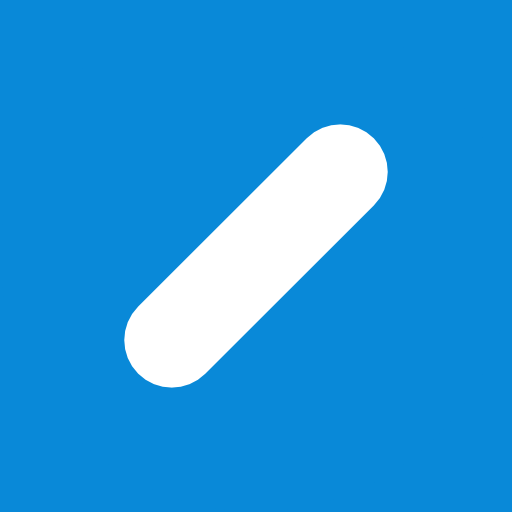
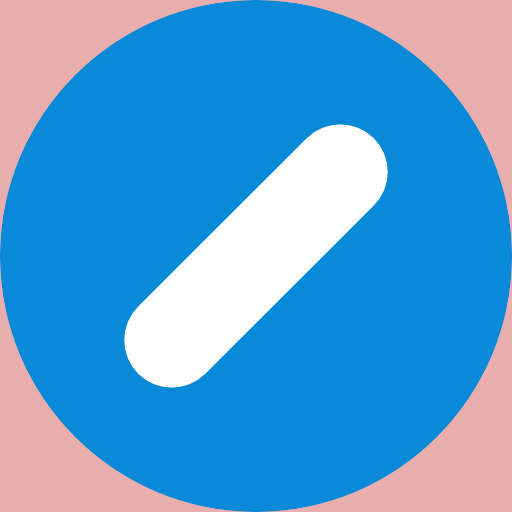
convert webmanifest to json + change android chrome assets

diff --git a/pages/index.js b/pages/index.js
@@ -89,7 +89,7 @@ export default function Home() {
         />
 
         {/* Android Chrome */}
-        <link rel="manifest" href="/site.webmanifest" />
+        <link rel="manifest" href="/manifest.json" />
       </Head>
 
       <main>
